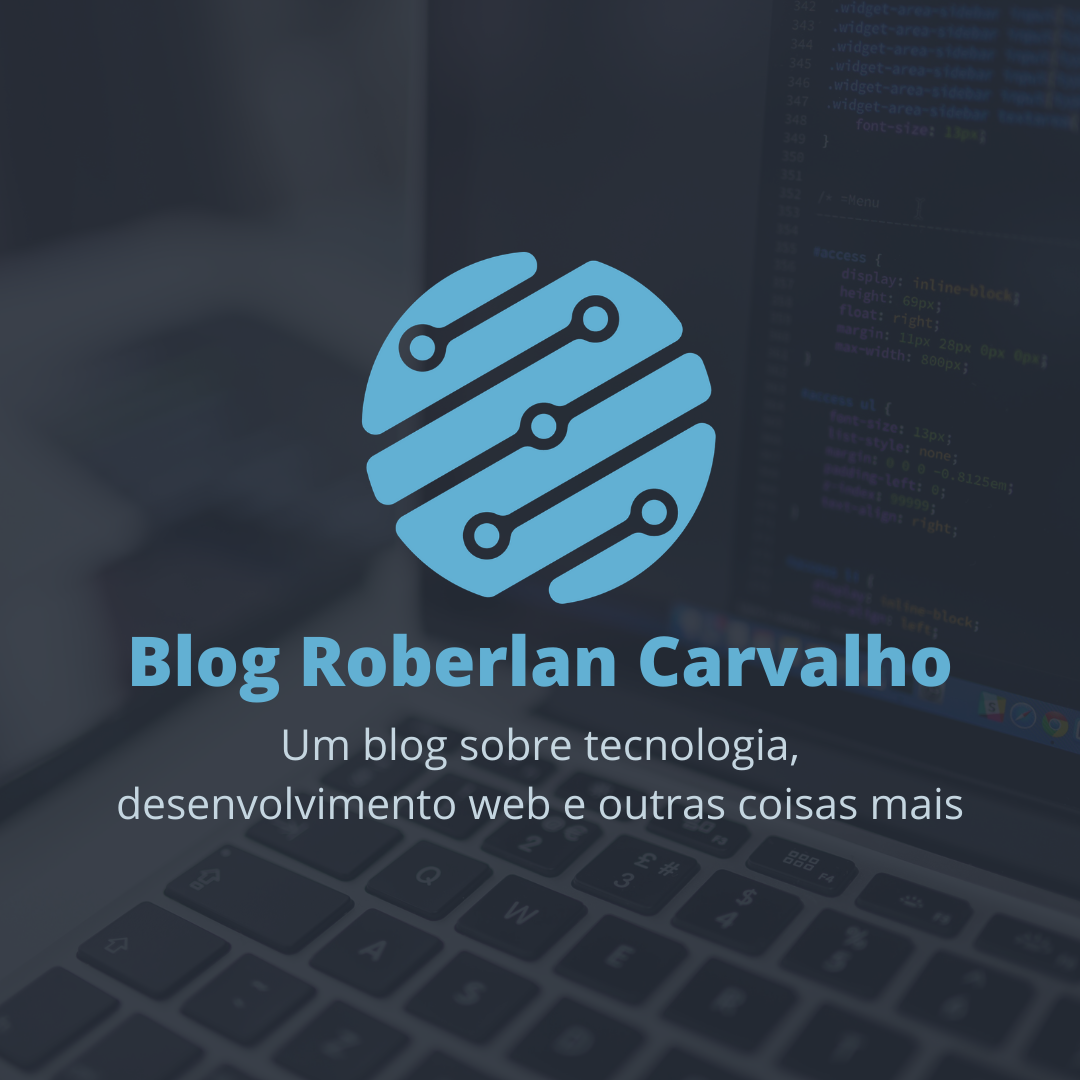
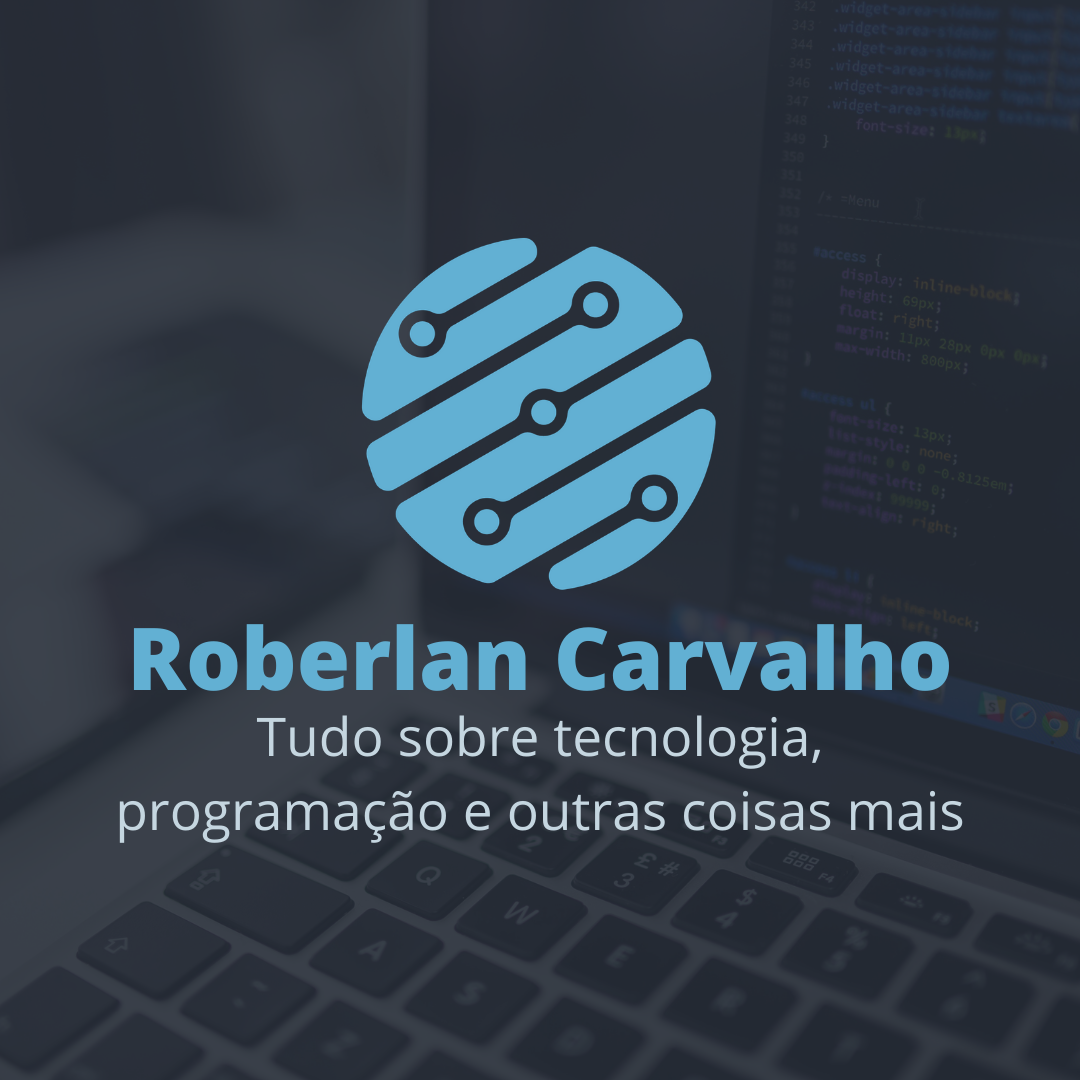
Correção na classe gatsby-config linha 8 e mudança de cover

Changed region(s): [[0.0917, 0.2139, 0.9167, 0.7944]]

diff --git a/gatsby-config.js b/gatsby-config.js
@@ -5,7 +5,7 @@ const queries = require("./src/utils/algolia_queries")
 module.exports = {
   siteMetadata: {
     title: `Roberlan Carvalho`,
-    description: `Tudo sobre tecnologia, programaçõo e outras coisas mais`,
+    description: `Tudo sobre tecnologia, programação e outras coisas mais`,
     position: `Desenvolvedor Full Stack`,
     author: `@tecnorth`,
     siteUrl: `https://roberlancarvalho.com`,
